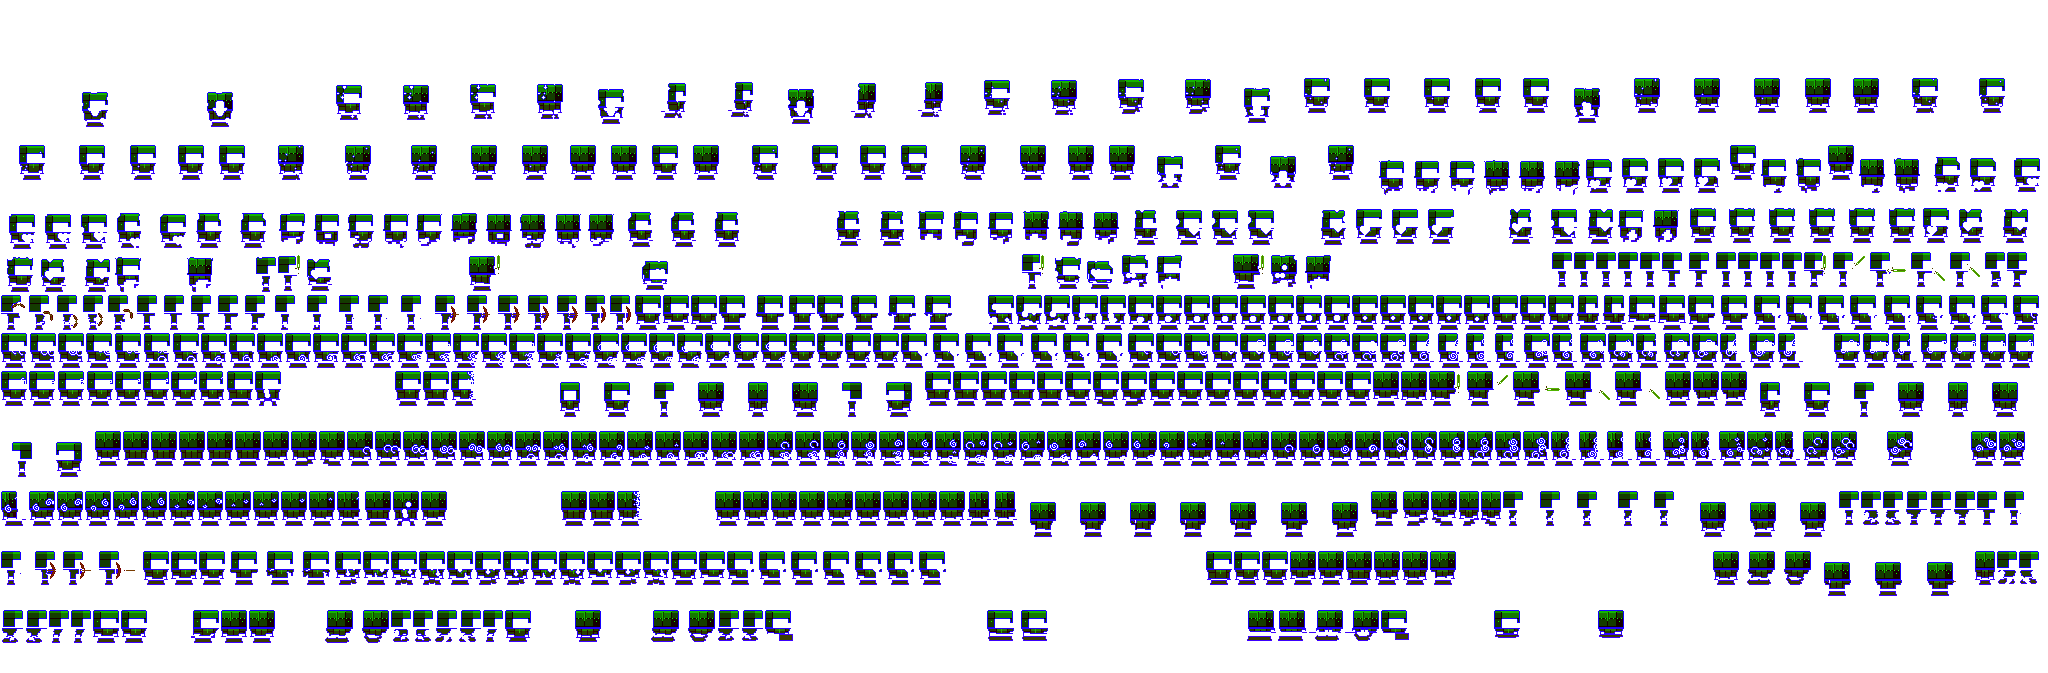
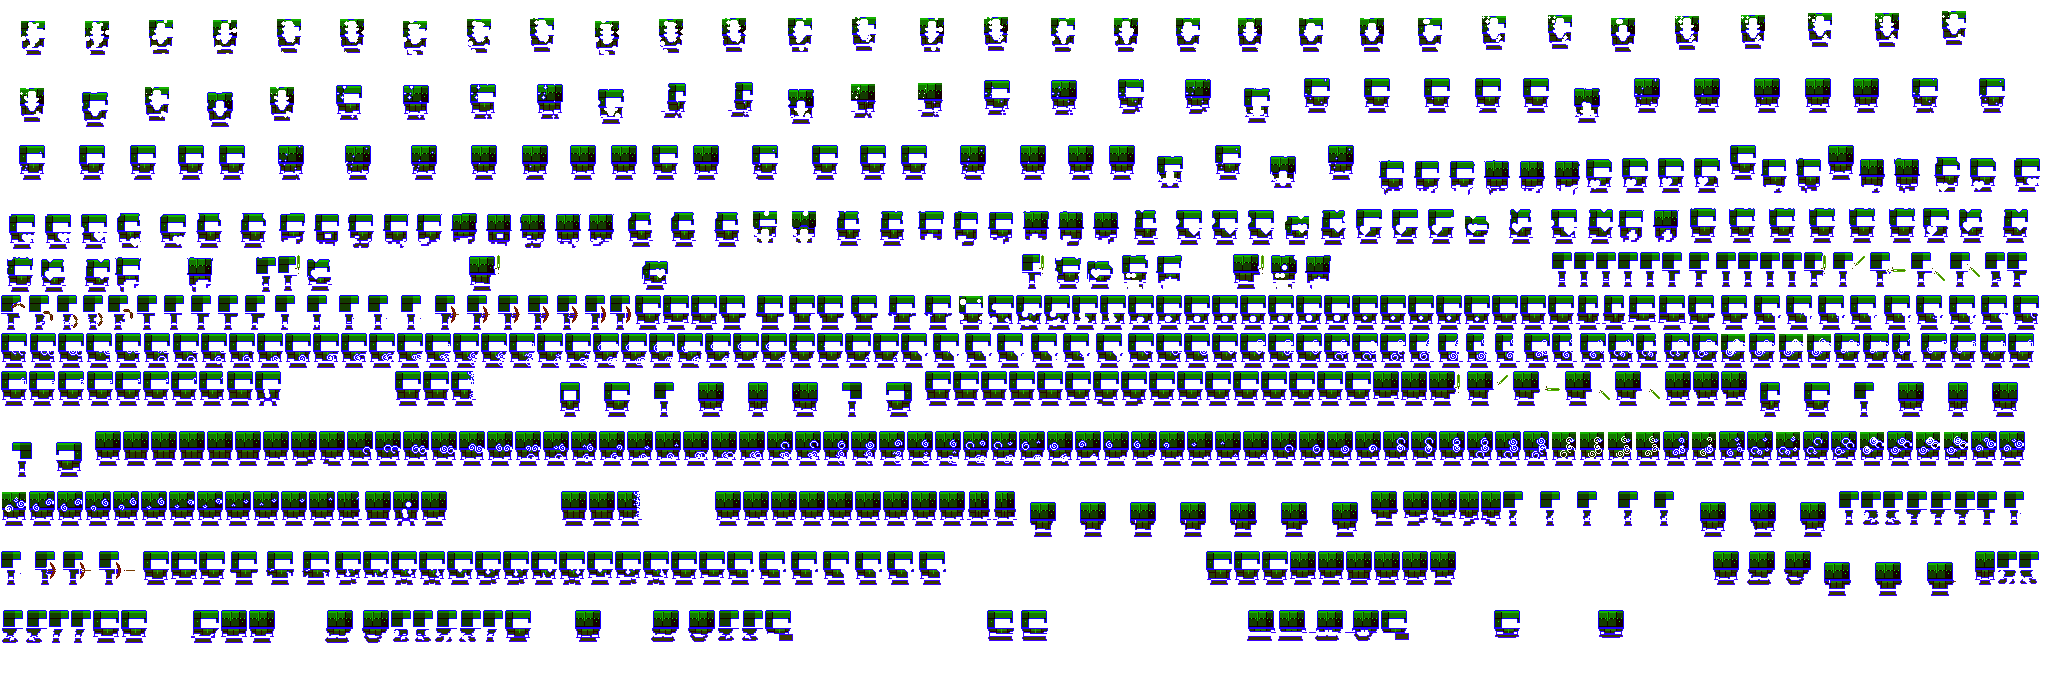
1.0.25: kare panel dugmeleri, altin elma/totem zirh titremesi duzeltildi
Claude-Session: https://claude.ai/code/session_01Ue2iDVwFWW3oAXcaQ5yd86

diff --git a/css/style.css b/css/style.css
@@ -1053,3 +1053,11 @@ textarea.save-text, .save-text textarea { width: 100%; height: calc(40 * var(--u
 .btn.hud-loot-btn, .btn.build-btn, .map-spot, .char-card, .objlabel, .dodge, .dodge .ring, .dock-badge, .title-card, .album-card, .zone.zbanner {
   border-radius: 0 !important;
 }
+
+/* 1.0.25 (Eren): panel ust dugmeleri (? ve kapat) her ekranda kare ve ayni boyda kalir; ? kapatmanin yaninda.
+   Telefondaki "en az 40 piksel" kurali bunlari uzun dikdortgene ceviriyordu. */
+.panel-head .btn.help { margin-left: auto; }
+.panel-head .btn.close, .panel-head .btn.help { flex: none; aspect-ratio: 1; }
+@media (max-height: 500px) and (pointer: coarse), (max-height: 420px) {
+  .panel-head .btn.close, .panel-head .btn.help { min-height: 0; width: max(calc(15 * var(--u)), 30px); height: max(calc(15 * var(--u)), 30px); }
+}

diff --git a/src/data.js b/src/data.js
@@ -5,7 +5,7 @@ import { now as gNow } from './clock.js';
 export const GAME_W = 384;
 export const GAME_H = 216;
 export const GROUND_Y = 178;
-export const VERSION = '1.0.24';
+export const VERSION = '1.0.25';
 
 // Her karakter sadece kendi koduyla secilebilir. Kodun kendisi burada degil,
 // sadece SHA-256 ozeti tutulur. (Bulut hesaplari 0.6 surumunde gelecek.)

diff --git a/tools/gen_gearmap.py b/tools/gen_gearmap.py
@@ -130,6 +130,105 @@ def frame_views(char_dir, frames):
     return view, anim_of
 
 
+# 1.0.25 (Eren): altin elma / totem gibi animasyonlarda kafanin/govdenin ustundeki parlama ve
+# parcaciklar kafa bulmayi sasirtiyor; bazi karelerde kask/goguslik bos ya da yarim cikiyor ve
+# zirh cok hizli yanip sonuyor. Bu karelerde eksik parca, ayni animasyonun en yakin saglam
+# karesinden (ayni kaynak koordinatina) kopyalanir. Karakterin gercekten kayboldugu
+# animasyonlara (olum, patlama, kaybolma) dokunulmaz.
+REPAIR = ('goldenapple', 'totem', 'levelup', 'love')   # parlama/parcacikli animasyonlar
+REPAIR_MIN = 0.75
+
+
+def repair(out, meta, atlas, frames, pal, log):
+    O = out.load()
+    A = atlas.load()
+    by_anim = {}
+    for n in meta:
+        a, i = n.rsplit('/', 1)
+        by_anim.setdefault(a, []).append((int(i), n))
+    def pix(n, k):
+        m = meta[n]['frame']; res = []
+        for y in range(m['y'], m['y'] + m['h']):
+            for x in range(m['x'], m['x'] + m['w']):
+                p = O[x, y]
+                if p[3] and round(p[0] / KR) == k:
+                    res.append((x, y, p))
+        return res
+    def src_px(n, sx, sy):
+        f = frames[n]; ss = f['spriteSourceSize']; fr = f['frame']
+        x, y = sx - ss['x'], sy - ss['y']
+        return A[fr['x'] + x, fr['y'] + y] if 0 <= x < fr['w'] and 0 <= y < fr['h'] else (0, 0, 0, 0)
+    sil = {}
+    def body_set(n):
+        if n not in sil:
+            f = frames[n]; ss = f['spriteSourceSize']; fr = f['frame']; st = set()
+            for y in range(fr['h']):
+                for x in range(fr['w']):
+                    q = A[fr['x'] + x, fr['y'] + y]
+                    if q[3] and (is_outline(q) or q[:3] in pal):
+                        st.add((x + ss['x'], y + ss['y']))
+            sil[n] = st
+        return sil[n]
+    def diff(n, g):
+        return len(body_set(n) ^ body_set(g))
+    for a, lst in by_anim.items():
+        base = a[2:] if a.startswith('b_') else a
+        if base not in REPAIR or len(lst) < 4:
+            continue
+        lst.sort()
+        names = [n for _, n in lst]
+        for k in (1, 2, 3):
+            cnt = {n: len(pix(n, k)) for n in names}
+            vals = sorted(cnt.values())
+            med = vals[len(vals) // 2]
+            if med < 20:
+                continue
+            good = [j for j, n in enumerate(names) if cnt[n] >= REPAIR_MIN * med]
+            if not good:
+                continue
+            # art arda bozuk kareler tek bir kaynak kareden alinir (kask sekli kareler arasinda ziplamasin):
+            # karakter silueti en cok benzeyen saglam kare, esitse en yakini
+            runs, cur = [], []
+            for j, n in enumerate(names):
+                if cnt[n] < REPAIR_MIN * med:
+                    cur.append(j)
+                elif cur:
+                    runs.append(cur); cur = []
+            if cur:
+                runs.append(cur)
+            src = {}
+            for r in runs:
+                q = min(good, key=lambda q: (sum(diff(names[j], names[q]) for j in r), min(abs(q - j) for j in r), q))
+                for j in r:
+                    src[j] = q
+            for j, n in enumerate(names):
+                if j not in src:
+                    continue
+                g = names[src[j]]
+                mg, mb = meta[g], meta[n]
+                fb = mb['frame']
+                # once bu karedeki yarim parca silinir, sonra saglam kareninki kopyalanir
+                for x, y, p in pix(n, k):
+                    O[x, y] = (0, 0, 0, 0)
+                put = 0
+                for x, y, p in pix(g, k):
+                    sx = x - mg['frame']['x'] - mg['pad'] + mg['spriteSourceSize']['x']
+                    sy = y - mg['frame']['y'] - mg['pad'] + mg['spriteSourceSize']['y']
+                    bx = sx - mb['spriteSourceSize']['x'] + mb['pad'] + fb['x']
+                    by = sy - mb['spriteSourceSize']['y'] + mb['pad'] + fb['y']
+                    if not (fb['x'] <= bx < fb['x'] + fb['w'] and fb['y'] <= by < fb['y'] + fb['h']):
+                        continue
+                    q = src_px(n, sx, sy)
+                    if not q[3] and not src_px(g, sx, sy)[3]:
+                        continue
+                    if q[3] and not is_outline(q) and q[:3] not in pal:
+                        continue                  # elde tutulan totem/elma ve parlama zirhin ustunde kalir
+                    if O[bx, by][3] and round(O[bx, by][0] / KR) not in (0, k):
+                        continue
+                    O[bx, by] = p; put += 1
+                log.append(f'{a}/{n.rsplit("/",1)[1]} parca {k}: {cnt[n]} -> {put} ({g} karesinden)')
+
+
 def process(char_dir):
     atlas = Image.open(os.path.join(char_dir, 'atlas.png')).convert('RGBA')
     frames = json.load(open(os.path.join(char_dir, 'atlas.json')))['frames']
@@ -524,6 +623,11 @@ def process(char_dir):
                     stats[k] = stats.get(k, 0) + 1
         shade(part, O, tone)
         shade(cpart, CO, ctone)
+    log = []
+    repair(out, meta, atlas, frames, pal, log)
+    stats['onarim'] = len(log)
+    if os.environ.get('GEAR_LOG'):
+        print('\n'.join(log))
     out.save(os.path.join(char_dir, 'gear.png'), optimize=True)
     cout.save(os.path.join(char_dir, 'cape.png'), optimize=True)
     json.dump({'frames': meta, 'meta': {'size': {'w': AW, 'h': AH}, 'pad': PAD}}, open(os.path.join(char_dir, 'gear.json'), 'w'))

diff --git a/README.md b/README.md
@@ -4,6 +4,11 @@ Arkadaşlarınla (en fazla 3 kişi) oynanan 2D piksel bir web oyunu. Zindana in,
 **Glemon** adlı yaratıklarla savaş, eşya topla, becerilerini 1'den 99'a kadar kas
 ve okulda arkadaşlarına profil kartını göster.
 
+## Sürüm 1.0.25
+
+- Panellerin üstündeki ? ve kapatma düğmeleri her ekran boyutunda kare ve sağda kalıyor.
+- Altın elma, totem, seviye atlama ve sevgi animasyonlarında zırh artık yanıp sönmüyor.
+
 ## Sürüm 1.0.24
 
 - Paneller bir seçimden ya da alıştan sonra en üste kaymıyor (Üretim Masası, Dükkân ve diğerleri).
